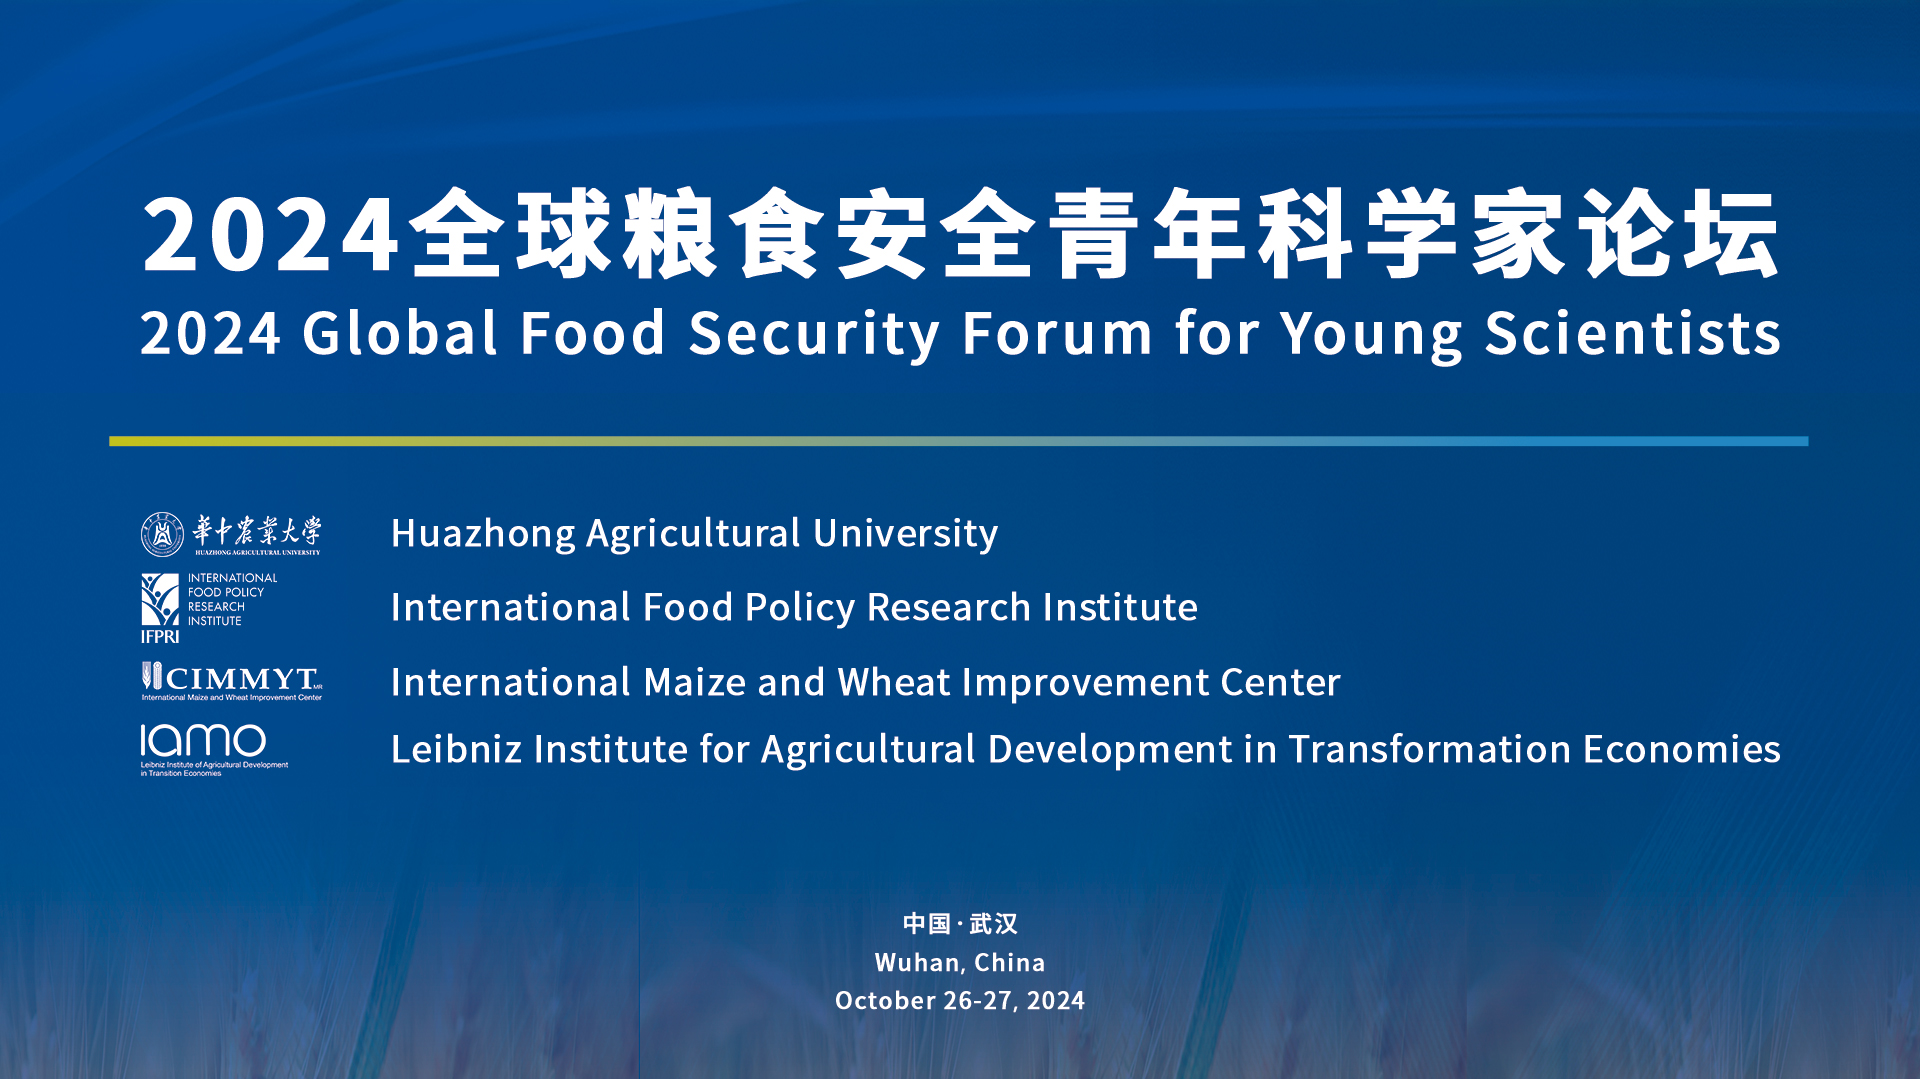
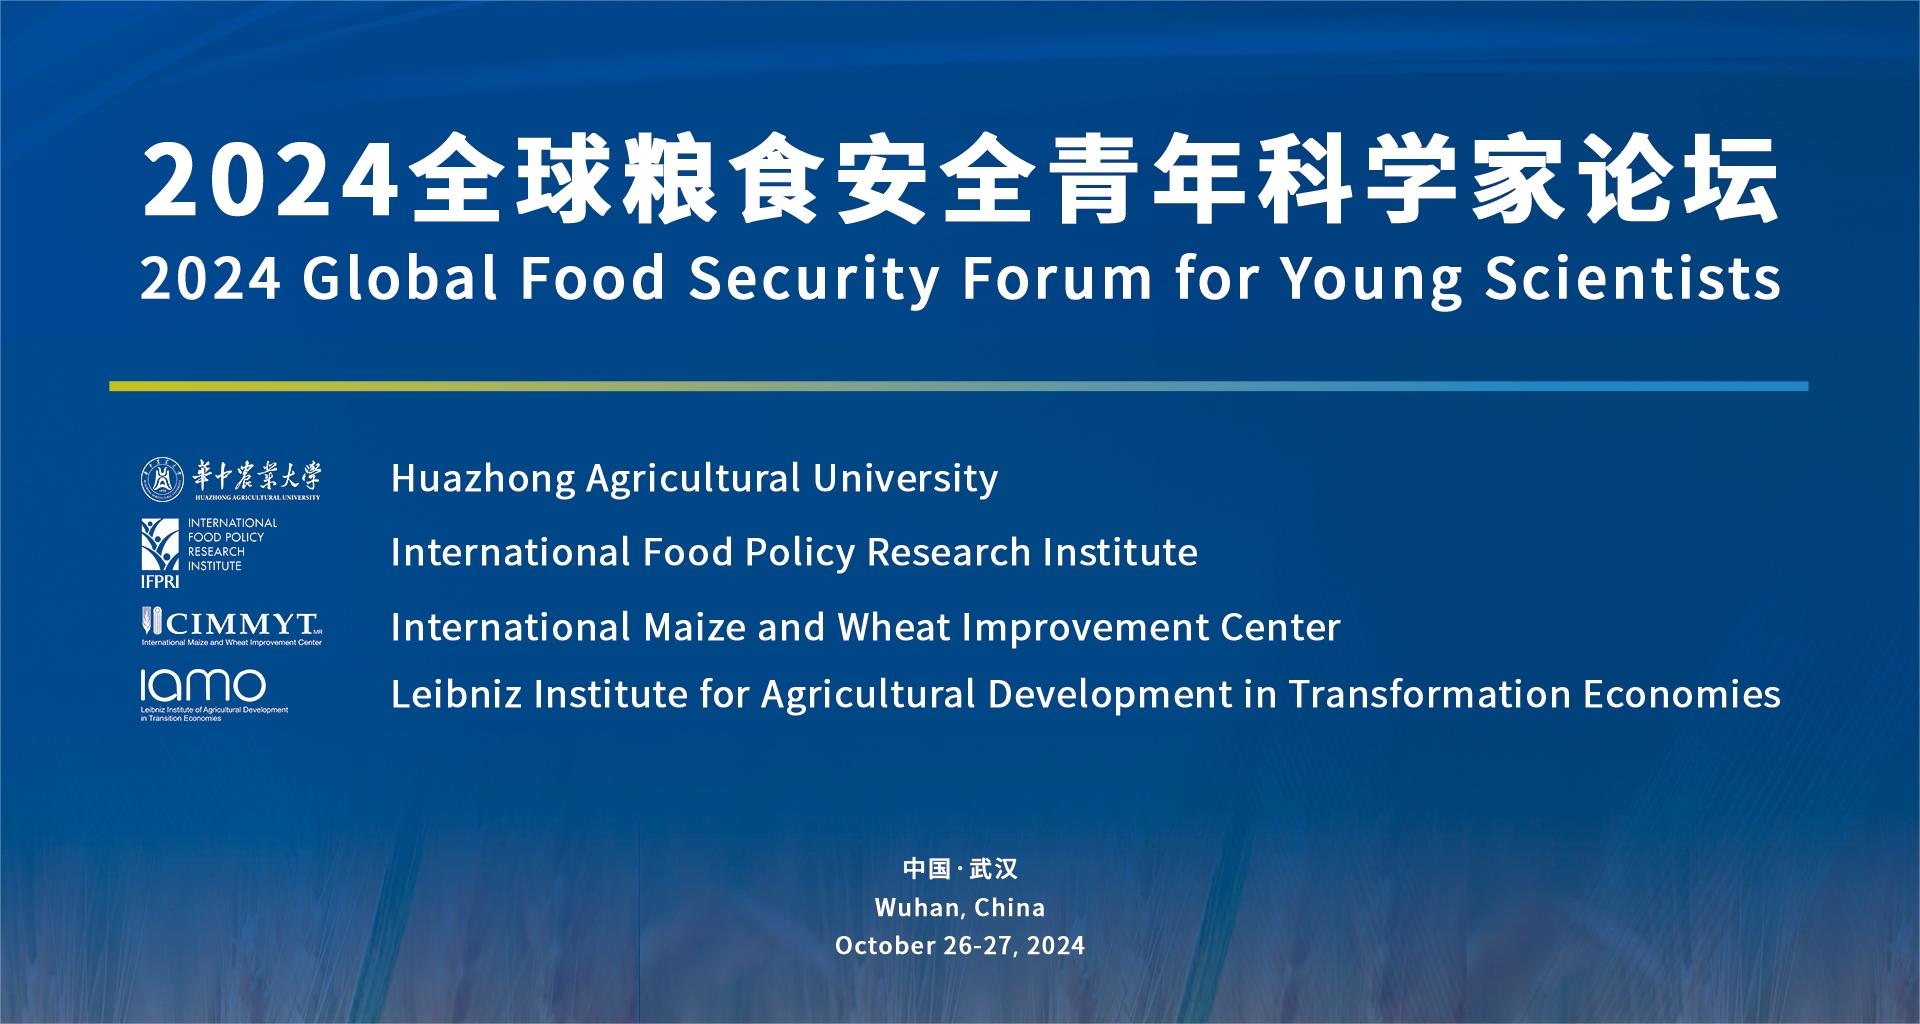
修改首页图片长度

Changed region(s): [[0.0625, 0.125, 0.9375, 0.7188], [0.4375, 0.8125, 0.5625, 0.9375], [0.625, 0.0312, 0.8125, 0.0938]]

diff --git a/source/index.md b/source/index.md
@@ -10,21 +10,21 @@ layout: homepage
             <div class="swiper-slide init">
                 <div class="inner">
                     <a href="/events/2024">
-                        <figure><img src="./2024.jpg" style="height:800px;"></figure>
+                        <figure><img src="./2024.jpg"></figure>
                     </a>
                 </div>
             </div>
             <div class="swiper-slide init">
                 <div class="inner">
                     <a href="/about/">
-                        <figure><img src="https://wp-img.daozhao.com/thefoodsecurity/Carousel_food1710.png"style="height:800px;"></figure>
+                        <figure><img src="./Carousel_food1710.png"></figure>
                     </a>
                 </div>
             </div>
             <div class="swiper-slide init">
                 <div class="inner">
                     <a href="/initiative/">
-                        <figure><img src="https://wp-img.daozhao.com/thefoodsecurity/Carousel_rice1995.png"style="height:800px;"></figure>
+                        <figure><img src="./Carousel_rice1995.png"></figure>
                     </a>
                 </div>
             </div>
